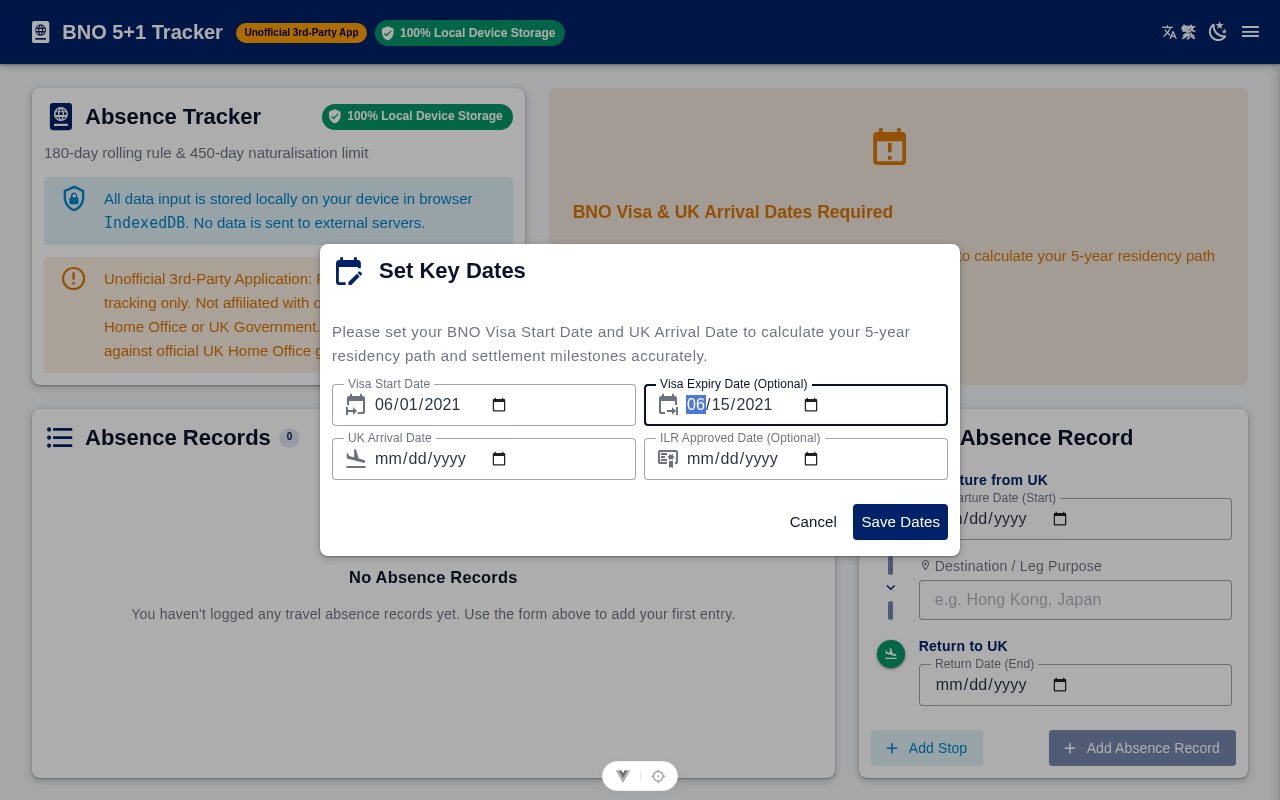
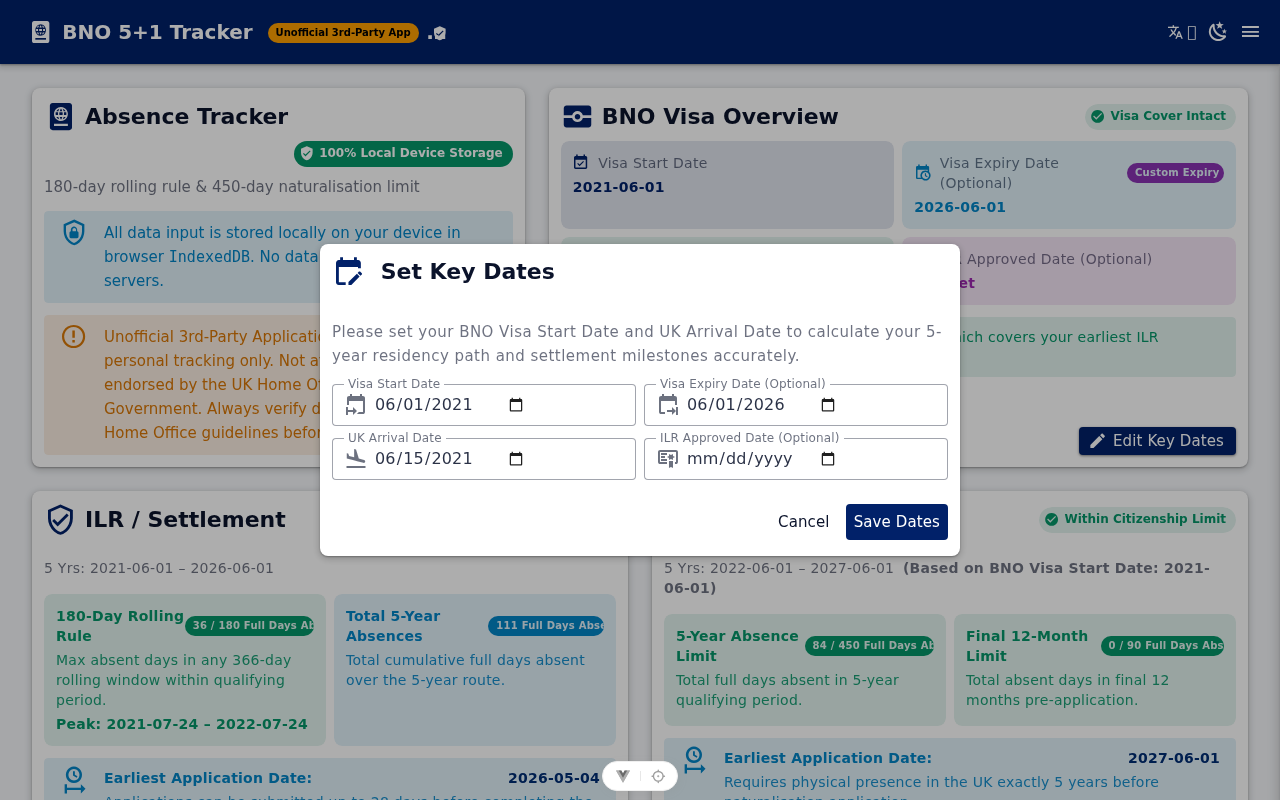
feat: add automated E2E test to generate and update instruction screenshots

diff --git a/e2e/generate-instruction-screenshots.spec.js b/e2e/generate-instruction-screenshots.spec.js
@@ -1,0 +1,338 @@
+import { test, expect } from '@playwright/test'
+import path from 'node:path'
+import fs from 'node:fs'
+
+const outputDir = path.join(process.cwd(), 'public', 'instructions')
+
+if (!fs.existsSync(outputDir)) {
+  fs.mkdirSync(outputDir, { recursive: true })
+}
+
+test.describe('Generate InstructionView Screenshots', () => {
+
+  async function seedData(page) {
+    await page.goto('/')
+    await page.waitForLoadState('networkidle')
+
+    await page.evaluate(async () => {
+      localStorage.clear()
+
+      const appEl = document.querySelector('#app')
+      if (!appEl || !appEl._vnode) return
+
+      const proxy = appEl._vnode.component.proxy
+      if (proxy && proxy.$pinia) {
+        const pinia = proxy.$pinia
+        const absentsStore = pinia._s.get('absents')
+        const documentsStore = pinia._s.get('documents')
+
+        if (absentsStore) {
+          await absentsStore.clearAbsences()
+          absentsStore.setVisaAndArrivalDates({
+            visaStartDate: '2021-06-01',
+            visaExpiryDate: '2026-06-01',
+            ukArrivalDate: '2021-06-15'
+          })
+
+          // Record 1: Multi-stop trip (Portugal -> Spain)
+          absentsStore.addAbsence({
+            startDate: '2021-12-20',
+            endDate: '2022-01-03',
+            dest: 'Portugal ➔ Spain',
+            stops: [
+              { date: '2021-12-20', dest: 'Portugal' },
+              { date: '2021-12-27', dest: 'Spain' },
+              { date: '2022-01-03', dest: '' }
+            ],
+            reason: 'Winter Break in Southern Europe'
+          })
+
+          // Record 2: Multi-stop trip (Hong Kong -> Japan -> Taiwan)
+          absentsStore.addAbsence({
+            startDate: '2022-07-01',
+            endDate: '2022-07-25',
+            dest: 'Hong Kong ➔ Japan ➔ Taiwan',
+            stops: [
+              { date: '2022-07-01', dest: 'Hong Kong' },
+              { date: '2022-07-10', dest: 'Japan' },
+              { date: '2022-07-18', dest: 'Taiwan' },
+              { date: '2022-07-25', dest: '' }
+            ],
+            reason: 'Family Visit & East Asia Tour'
+          })
+
+          // Record 3: Single-destination trip (Japan)
+          absentsStore.addAbsence({
+            startDate: '2023-04-05',
+            endDate: '2023-04-18',
+            dest: 'Japan - Tokyo & Kyoto',
+            stops: [
+              { date: '2023-04-05', dest: 'Japan - Tokyo & Kyoto' },
+              { date: '2023-04-18', dest: '' }
+            ],
+            reason: 'Spring Cherry Blossom Trip'
+          })
+
+          // Record 4: Multi-stop trip (Italy -> Switzerland -> France)
+          absentsStore.addAbsence({
+            startDate: '2023-10-10',
+            endDate: '2023-10-24',
+            dest: 'Italy ➔ Switzerland ➔ France',
+            stops: [
+              { date: '2023-10-10', dest: 'Italy' },
+              { date: '2023-10-15', dest: 'Switzerland' },
+              { date: '2023-10-20', dest: 'France' },
+              { date: '2023-10-24', dest: '' }
+            ],
+            reason: 'Autumn Alpine & Europe Tour'
+          })
+
+          // Record 5: Single-destination trip (Iceland)
+          absentsStore.addAbsence({
+            startDate: '2024-03-25',
+            endDate: '2024-04-04',
+            dest: 'Iceland - Reykjavik',
+            stops: [
+              { date: '2024-03-25', dest: 'Iceland - Reykjavik' },
+              { date: '2024-04-04', dest: '' }
+            ],
+            reason: 'Northern Lights Holiday'
+          })
+
+          // Record 6: Multi-stop trip (France -> Spain)
+          absentsStore.addAbsence({
+            startDate: '2024-08-05',
+            endDate: '2024-08-20',
+            dest: 'France ➔ Spain',
+            stops: [
+              { date: '2024-08-05', dest: 'France' },
+              { date: '2024-08-12', dest: 'Spain' },
+              { date: '2024-08-20', dest: '' }
+            ],
+            reason: 'Summer Holiday in Europe'
+          })
+
+          // Record 7: Multi-stop trip (Hong Kong -> Singapore)
+          absentsStore.addAbsence({
+            startDate: '2025-01-20',
+            endDate: '2025-02-03',
+            dest: 'Hong Kong ➔ Singapore',
+            stops: [
+              { date: '2025-01-20', dest: 'Hong Kong' },
+              { date: '2025-01-27', dest: 'Singapore' },
+              { date: '2025-02-03', dest: '' }
+            ],
+            reason: 'Lunar New Year Family Gathering'
+          })
+        }
+
+        if (documentsStore) {
+          documentsStore.updateLifeInUk({
+            status: 'passed',
+            testDate: '2024-05-10',
+            urn: 'LITUK-99887766',
+            testCenter: 'London Test Center'
+          })
+
+          documentsStore.updateEnglishTest({
+            type: 'b1_selt',
+            provider: 'Trinity College London',
+            status: 'passed',
+            referenceNo: 'TCL-12345678',
+            testDate: '2024-03-15'
+          })
+
+          documentsStore.updateNationalInsurance({
+            number: 'QQ 12 34 56 A',
+            status: 'received',
+            notes: 'Official HMRC Allocation Letter Received'
+          })
+
+          if (documentsStore.addressHistory && documentsStore.addressHistory.length === 0) {
+            documentsStore.addAddress({
+              addressLine1: '10 Downing Street',
+              city: 'London',
+              postcode: 'SW1A 2AA',
+              startDate: '2021-06-15',
+              isCurrent: true,
+              housingStatus: 'rented'
+            })
+          }
+        }
+
+        await new Promise((resolve) => setTimeout(resolve, 300))
+      }
+    })
+
+    await page.reload()
+    await page.waitForLoadState('networkidle')
+    await page.waitForTimeout(500)
+  }
+
+  async function populateMultiStopForm(card) {
+    const addStopBtn = card.locator('button:has-text("Add Stop"), button:has-text("新增中途站")').first()
+    if (await addStopBtn.isVisible()) {
+      await addStopBtn.click()
+      await card.page().waitForTimeout(300)
+    }
+
+    const dateInputs = card.locator('input[type="date"]')
+    const textInputs = card.locator('input[type="text"]')
+
+    if (await dateInputs.count() >= 3 && await textInputs.count() >= 2) {
+      await dateInputs.nth(0).fill('2025-06-01')
+      await textInputs.nth(0).fill('France')
+      await dateInputs.nth(1).fill('2025-06-06')
+      await textInputs.nth(1).fill('Spain')
+      await dateInputs.nth(2).fill('2025-06-15')
+    } else if (await dateInputs.count() >= 2 && await textInputs.count() >= 1) {
+      await dateInputs.nth(0).fill('2025-06-01')
+      await textInputs.nth(0).fill('France ➔ Spain')
+      await dateInputs.nth(1).fill('2025-06-15')
+    }
+  }
+
+  // ---------------------------------------------------------------------------
+  // Desktop Screenshots (1280x800)
+  // ---------------------------------------------------------------------------
+  test('Capture Desktop Screenshots (1280x800)', async ({ page }) => {
+    await page.setViewportSize({ width: 1280, height: 800 })
+    await seedData(page)
+
+    // 1. step1_overview.png
+    await page.goto('/')
+    await page.waitForTimeout(600)
+    await page.screenshot({
+      path: path.join(outputDir, 'step1_overview.png'),
+      fullPage: false
+    })
+
+    // 2. step2_key_dates.png
+    const setDatesBtn = page.locator('button:has-text("Set Key Dates"), button:has-text("Edit Key Dates"), button:has-text("Set Up Key Dates")').first()
+    if (await setDatesBtn.isVisible()) {
+      await setDatesBtn.click()
+      await page.waitForTimeout(500)
+      const dialog = page.locator('.v-dialog').first()
+      if (await dialog.isVisible()) {
+        await dialog.screenshot({ path: path.join(outputDir, 'step2_key_dates.png') })
+      } else {
+        await page.screenshot({ path: path.join(outputDir, 'step2_key_dates.png') })
+      }
+      await page.keyboard.press('Escape')
+      await page.waitForTimeout(300)
+    }
+
+    // 3. step3_add_absence.png (Multi-stop trip form demonstration)
+    await page.goto('/')
+    await page.waitForTimeout(400)
+    const addAbsenceCard = page.locator('div.v-card').filter({ hasText: /Add.*Absence|Add New Absence|新增離境/i }).first()
+    if (await addAbsenceCard.isVisible()) {
+      await populateMultiStopForm(addAbsenceCard)
+      await addAbsenceCard.scrollIntoViewIfNeeded()
+      await page.waitForTimeout(300)
+      await page.screenshot({
+        path: path.join(outputDir, 'step3_add_absence.png'),
+        fullPage: false
+      })
+    }
+
+    // 4. step3_absence_list.png (Multiple records + Multi-stop trips table)
+    const absenceListCard = page.locator('div.v-card').filter({ hasText: /Absence Records|離境紀錄/i }).first()
+    if (await absenceListCard.isVisible()) {
+      await absenceListCard.scrollIntoViewIfNeeded()
+      await page.waitForTimeout(300)
+      await page.screenshot({
+        path: path.join(outputDir, 'step3_absence_list.png'),
+        fullPage: false
+      })
+    }
+
+    // 5. step4_documents.png
+    await page.goto('/documents')
+    await page.waitForTimeout(600)
+    await page.screenshot({
+      path: path.join(outputDir, 'step4_documents.png'),
+      fullPage: false
+    })
+
+    // 6. step5_reference.png
+    await page.goto('/reference')
+    await page.waitForTimeout(600)
+    await page.screenshot({
+      path: path.join(outputDir, 'step5_reference.png'),
+      fullPage: false
+    })
+  })
+
+  // ---------------------------------------------------------------------------
+  // Mobile Screenshots (390x844)
+  // ---------------------------------------------------------------------------
+  test('Capture Mobile Screenshots (390x844)', async ({ page }) => {
+    await page.setViewportSize({ width: 390, height: 844 })
+    await seedData(page)
+
+    // 1. narrow_step1_overview.png
+    await page.goto('/')
+    await page.waitForTimeout(600)
+    await page.screenshot({
+      path: path.join(outputDir, 'narrow_step1_overview.png'),
+      fullPage: false
+    })
+
+    // 2. narrow_step2_key_dates.png
+    const setDatesBtn = page.locator('button:has-text("Set Key Dates"), button:has-text("Edit Key Dates"), button:has-text("Set Up Key Dates")').first()
+    if (await setDatesBtn.isVisible()) {
+      await setDatesBtn.click()
+      await page.waitForTimeout(500)
+      const dialog = page.locator('.v-dialog').first()
+      if (await dialog.isVisible()) {
+        await dialog.screenshot({ path: path.join(outputDir, 'narrow_step2_key_dates.png') })
+      } else {
+        await page.screenshot({ path: path.join(outputDir, 'narrow_step2_key_dates.png') })
+      }
+      await page.keyboard.press('Escape')
+      await page.waitForTimeout(300)
+    }
+
+    // 3. narrow_step3_add_absence.png
+    await page.goto('/')
+    await page.waitForTimeout(400)
+    const addAbsenceCard = page.locator('div.v-card').filter({ hasText: /Add.*Absence|Add New Absence|新增離境/i }).first()
+    if (await addAbsenceCard.isVisible()) {
+      await populateMultiStopForm(addAbsenceCard)
+      await addAbsenceCard.scrollIntoViewIfNeeded()
+      await page.waitForTimeout(300)
+      await page.screenshot({
+        path: path.join(outputDir, 'narrow_step3_add_absence.png'),
+        fullPage: false
+      })
+    }
+
+    // 4. narrow_step3_absence_list.png
+    const absenceListCard = page.locator('div.v-card').filter({ hasText: /Absence Records|離境紀錄/i }).first()
+    if (await absenceListCard.isVisible()) {
+      await absenceListCard.scrollIntoViewIfNeeded()
+      await page.waitForTimeout(300)
+      await page.screenshot({
+        path: path.join(outputDir, 'narrow_step3_absence_list.png'),
+        fullPage: false
+      })
+    }
+
+    // 5. narrow_step4_documents.png
+    await page.goto('/documents')
+    await page.waitForTimeout(600)
+    await page.screenshot({
+      path: path.join(outputDir, 'narrow_step4_documents.png'),
+      fullPage: false
+    })
+
+    // 6. narrow_step5_reference.png
+    await page.goto('/reference')
+    await page.waitForTimeout(600)
+    await page.screenshot({
+      path: path.join(outputDir, 'narrow_step5_reference.png'),
+      fullPage: false
+    })
+  })
+})
